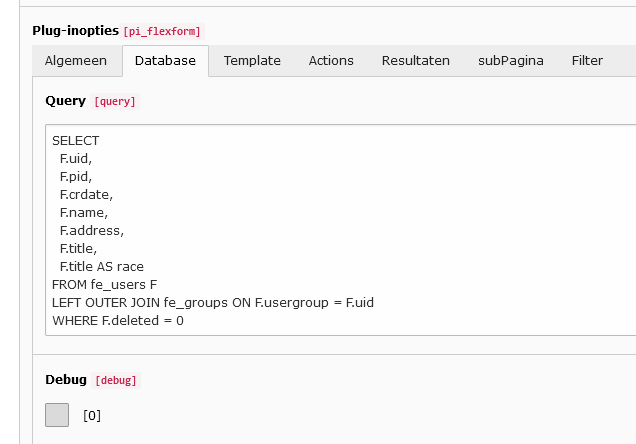
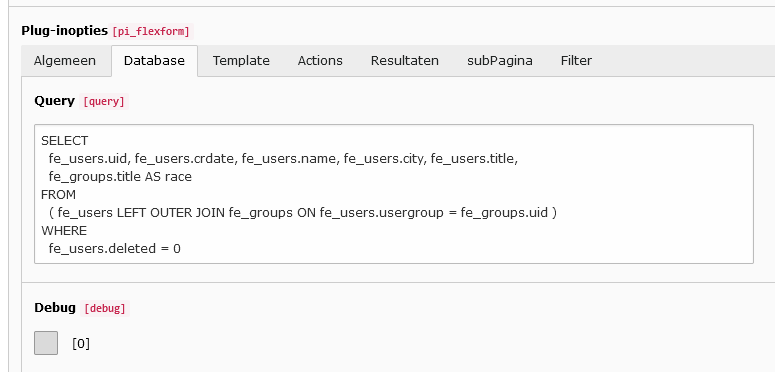
final update 2021

diff --git a/Documentation/UsersManual/Filters/Index.rst b/Documentation/UsersManual/Filters/Index.rst
@@ -5,6 +5,15 @@
 Filters
 =======
 
-A filter is able to search only inside the results of a previously constructed query (or better, it's used to restrict the rows retrieved by an existing query). In our case we select the previously made “list query”.
+A filter is able to search only inside the results of the previously constructed query (or better, it's used to restrict the rows retrieved by an existing query). In our case it is the query in the database tab.
 
-Go to tab "Filter"
+We want to permit our users to search for the characters whose name contains a particular string. For example, if a user searches for “he”, the query has to retrieve two characters: the doctor Beverlie Crusher and the Commander William Richer (Number 1 for the Captain ;-)). To do this we have to modify the query to obtain the following SQL:
+
+SELECT fe_users.uid, fe_users.name, fe_users.address, fe_users.title, fe_groups.title AS race FROM ( fe_users LEFT OUTER JOIN fe_groups ON fe_users.usergroup = fe_groups.uid ) WHERE ###filterFields### AND fe_users.deleted = 0 ORDER BY fe_users.name ASC
+
+In order to activate the filter, go to the filter tab.
+Add a new filter field by pressing the plus sign.
+Filterfieldname: name
+Filterfieldtype: TEXT
+Filterfieldwhere: name LIKE '%name%'
+and save the content element.

diff --git a/Documentation/Introduction/Screenshots/Index.rst b/Documentation/Introduction/Screenshots/Index.rst
@@ -11,21 +11,21 @@ Screenshots
 -----------
 *  Create a query to be used as the source for your data
 
- 
 .. figure:: ../../Images/QueryCreation.png
    :alt: Query creation (raw query)
 
-   Query creation with the wizard
+   Query creation
+   
+*  Results displaying
 
-.. figure:: ../../Images/event-event.png
-.. figure:: ../../Images/event-event.png
+.. figure:: ../../Images/Result01.PNG
    :alt: Results displaying
 
    Results displaying
 
+*  Detail section
 
-.. figure:: ../../Images/event-event.png
-   :alt: Insert form creation with the wizard
+.. figure:: ../../Images/DetailView-01.PNG
+   :alt: Detail View
 
-   Insert form creation with the wizard
-
+   Detail View

diff --git a/Documentation/UsersManual/Index.rst b/Documentation/UsersManual/Index.rst
@@ -36,3 +36,4 @@ Finally, the “Characters management” page provides the form to insert, edit 
    :glob:
 
    CharactersList/Index
+   Filters/Index
